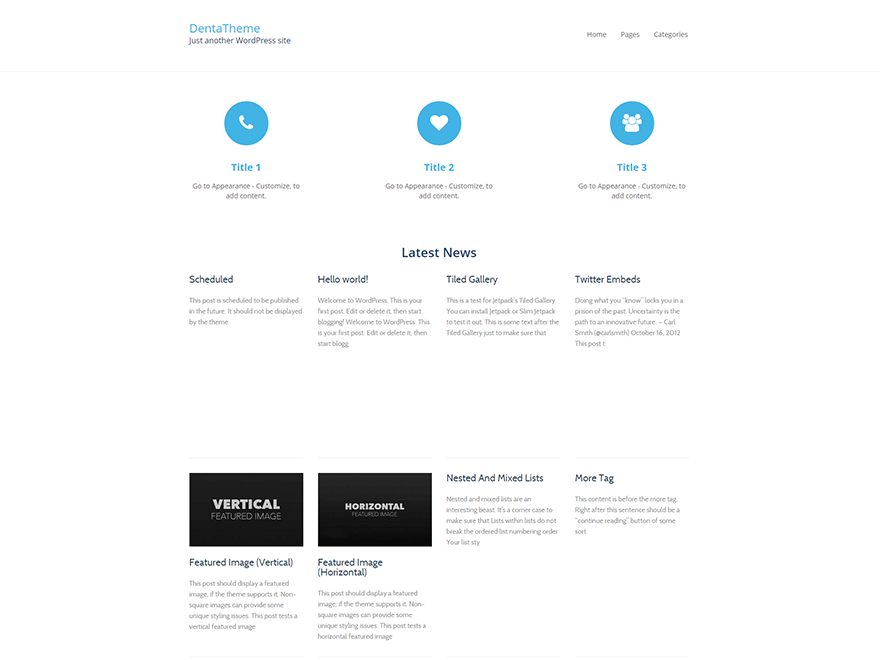
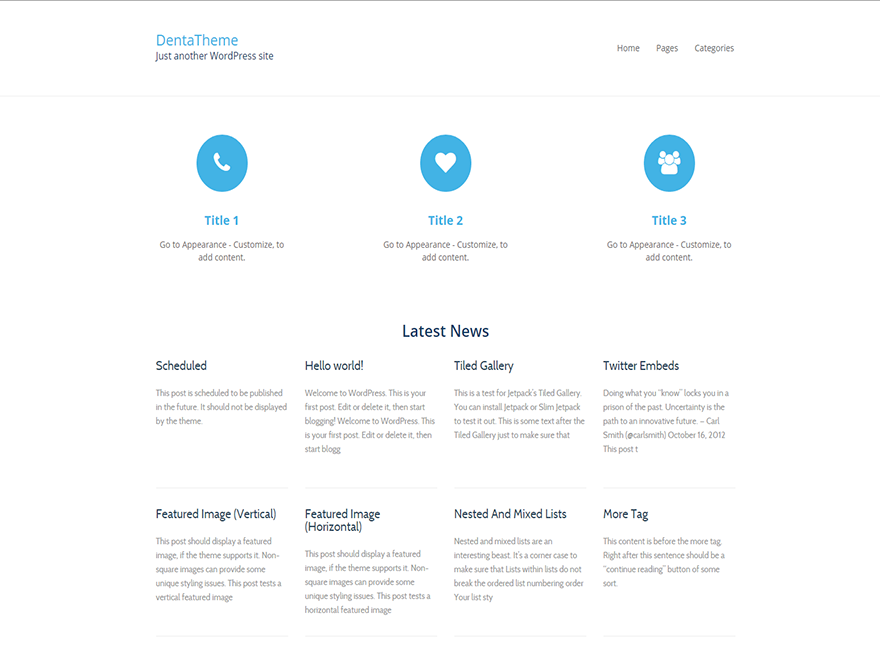
Issue #48 fixed (screenshot f urat)
@robi09 @robciucioan screenshotul arata f rau, fara featured images la
posts, cu imaginile alea standard etc, putem sa facem unu mai ok ?

Putem trimite toate cele 3 teme lite azi ? Adica sa fixam toate issues ?

diff --git a/page-home.php b/page-home.php
@@ -1,5 +1,7 @@
 <?php
 /**
+ *	Template name: Home
+ *
  *	The template for displaying Front Page.
  *
  *	@package ThemeIsle.
